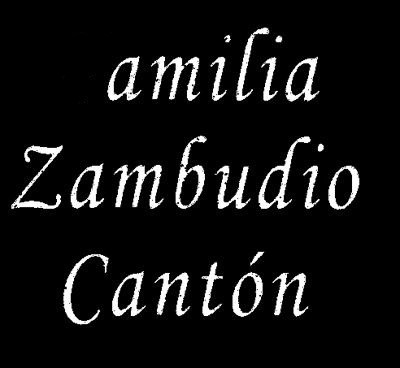
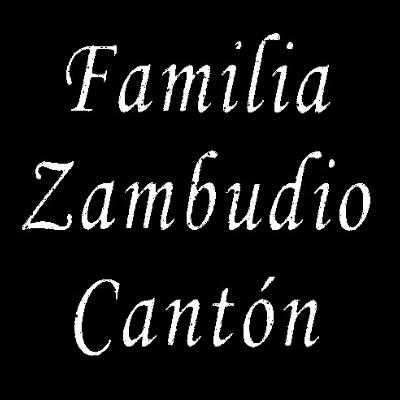
44

diff --git a/Comparar.py b/Comparar.py
@@ -1,0 +1,68 @@
+import cv2
+import numpy as np
+from PIL import Image, ImageChops, ImageStat
+
+
+
+'''
+#No hay suficientes diferencias
+height = 312
+width = 312
+A = cv2.imread("letrasProg.jpg", 0)
+
+B = cv2.imread("letrasBuenas.jpg", 0)
+
+errorL2 = cv2.norm( A, B, cv2.NORM_L2 )
+similarity = 1 - errorL2 / ( height * width )
+print('Similarity = ',similarity)
+
+cv2.imshow('A',A)
+cv2.imshow('B',B)
+cv2.waitKey(0)
+'''
+
+
+'''
+#Siempre me da la maxima puntuacion
+
+base = cv2.imread('letrasProg.jpg')
+test = cv2.imread('letrasFalsas.jpg')
+
+hsv_base = cv2.cvtColor(base, cv2.COLOR_BGR2HSV)
+hsv_test = cv2.cvtColor(test, cv2.COLOR_BGR2HSV)
+
+h_bins = 50
+s_bins = 60
+histSize = [h_bins, s_bins]
+h_ranges = [0, 180]
+s_ranges = [0, 256]
+ranges = h_ranges + s_ranges
+channels = [0, 1]
+
+hist_base = cv2.calcHist([hsv_base], channels, None, histSize, ranges, accumulate=False)
+cv2.normalize(hist_base, hist_base, alpha=0, beta=1, norm_type=cv2.NORM_MINMAX)
+hist_test = cv2.calcHist([hsv_test], channels, None, histSize, ranges, accumulate=False)
+cv2.normalize(hist_test, hist_test, alpha=0, beta=1, norm_type=cv2.NORM_MINMAX)
+
+compare_method = cv2.HISTCMP_CORREL
+
+base_base = cv2.compareHist(hist_base, hist_base, compare_method)
+base_test = cv2.compareHist(hist_base, hist_test, compare_method)
+
+print('base_base Similarity = ', base_base)
+print('base_test Similarity = ', base_test)
+
+cv2.imshow('base',base)
+cv2.imshow('test1',test)
+cv2.waitKey(0)
+'''
+
+
+'''
+#Se solapan pero necesito que esten en la misma posicion
+img1 = Image.open("letrasProg.jpg")
+img2 = Image.open("letrasBuenas.jpg")
+diff = ImageChops.difference(img1.convert("RGB"), img2.convert("RGB"))
+diff.show()
+'''
+
